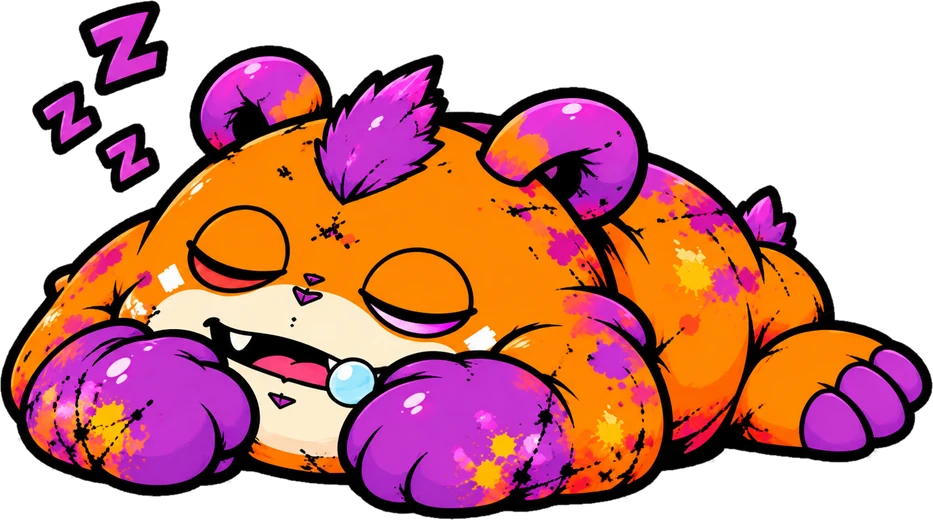
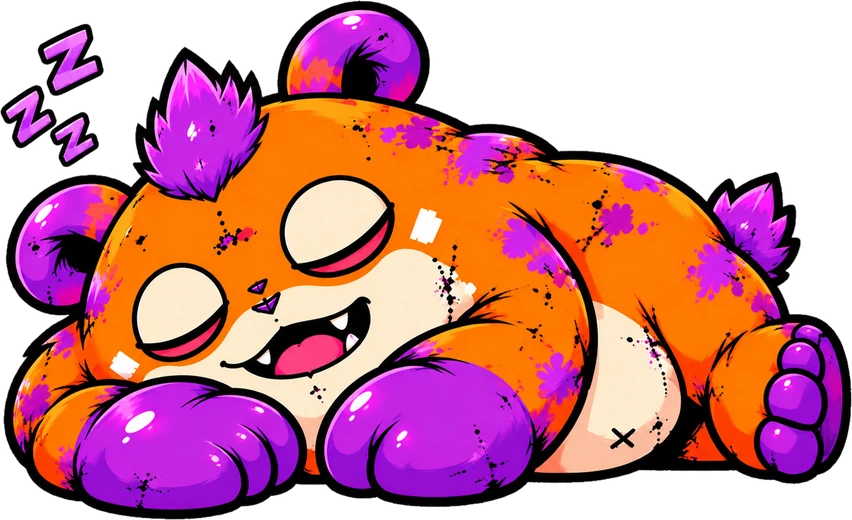
BUNK: new sleeping pose
Claude-Session: https://claude.ai/code/session_01MXithgTc5umkveoyZShZHQ

diff --git a/design/bunk/poses/make_poses.py b/design/bunk/poses/make_poses.py
@@ -21,7 +21,7 @@ HEIGHT = 520
 
 
 # 2026-10-21 からの新しい絵(チェック柄が明るい灰色と白)。remove_checker_v2 で切り抜く
-NEW_ART = {'hungry', 'look', 'sit'}
+NEW_ART = {'hungry', 'look', 'sit', 'sleep'}
 
 
 def remove_checker_v2(im: Image.Image) -> Image.Image:

diff --git a/design/bunk/README.md b/design/bunk/README.md
@@ -8,7 +8,7 @@
 - 腕を下ろした姿（ふつう）も新しい絵 `reference/bunk_down_v2.png` にした（2026-10-21）。正面を向いているので、顔ではなく足元で位置をそろえた（(14,16) ずらす）。パーツ分けは `reference/pose_down/split.json`（目のパーツも入れて、反転したときの目の位置に使う）。
 - 表情の顔（新しい絵）は `tools/build_bunk_faces_v2.py design/bunk/reference/pose_down/faces_v2.json` で作る。表情の絵は ふつうの絵と少しだけ大きさ・位置がちがうので、線が重なるように合わせてから、ちがう所（顔）だけ切り出す。
   - 2026-10-21：目を閉じた顔（`pose_down/v2_closed.png`）・怒った顔（`v2_angry.png`）・悲しい顔（`v2_sad.png`）・喜んだ顔（`v2_happy.png`）。表情は4つそろった。届いた表情から `faces_v2.json` の faces と `bunkMotion.json` の faces.names に足す。
-  - 新しい表情の顔は腕を下ろした姿（正面）に合わせているので、構えた姿ではまばたきしない。反応の顔を出すときは腕を下ろした姿になる（`facesOnlyDown`）。お世話画面の6つの姿は、とどくまで前の絵のまま。とどいた姿は `design/bunk/poses/<名前>.png` に置いて `python3 design/bunk/poses/make_poses.py <名前>` で作り直す（前の絵は `<名前>_v1.png`）。新しい絵は `NEW_ART` に入れる（明るいチェック柄の消し方）。2026-10-21：おなかすいた（hungry）・見回す（look）・おすわり（sit）。
+  - 新しい表情の顔は腕を下ろした姿（正面）に合わせているので、構えた姿ではまばたきしない。反応の顔を出すときは腕を下ろした姿になる（`facesOnlyDown`）。お世話画面の6つの姿は、とどくまで前の絵のまま。とどいた姿は `design/bunk/poses/<名前>.png` に置いて `python3 design/bunk/poses/make_poses.py <名前>` で作り直す（前の絵は `<名前>_v1.png`）。新しい絵は `NEW_ART` に入れる（明るいチェック柄の消し方）。2026-10-21：おなかすいた（hungry）・見回す（look）・おすわり（sit）・寝る（sleep）。
 
 以下は前の絵のときの記録。
 
